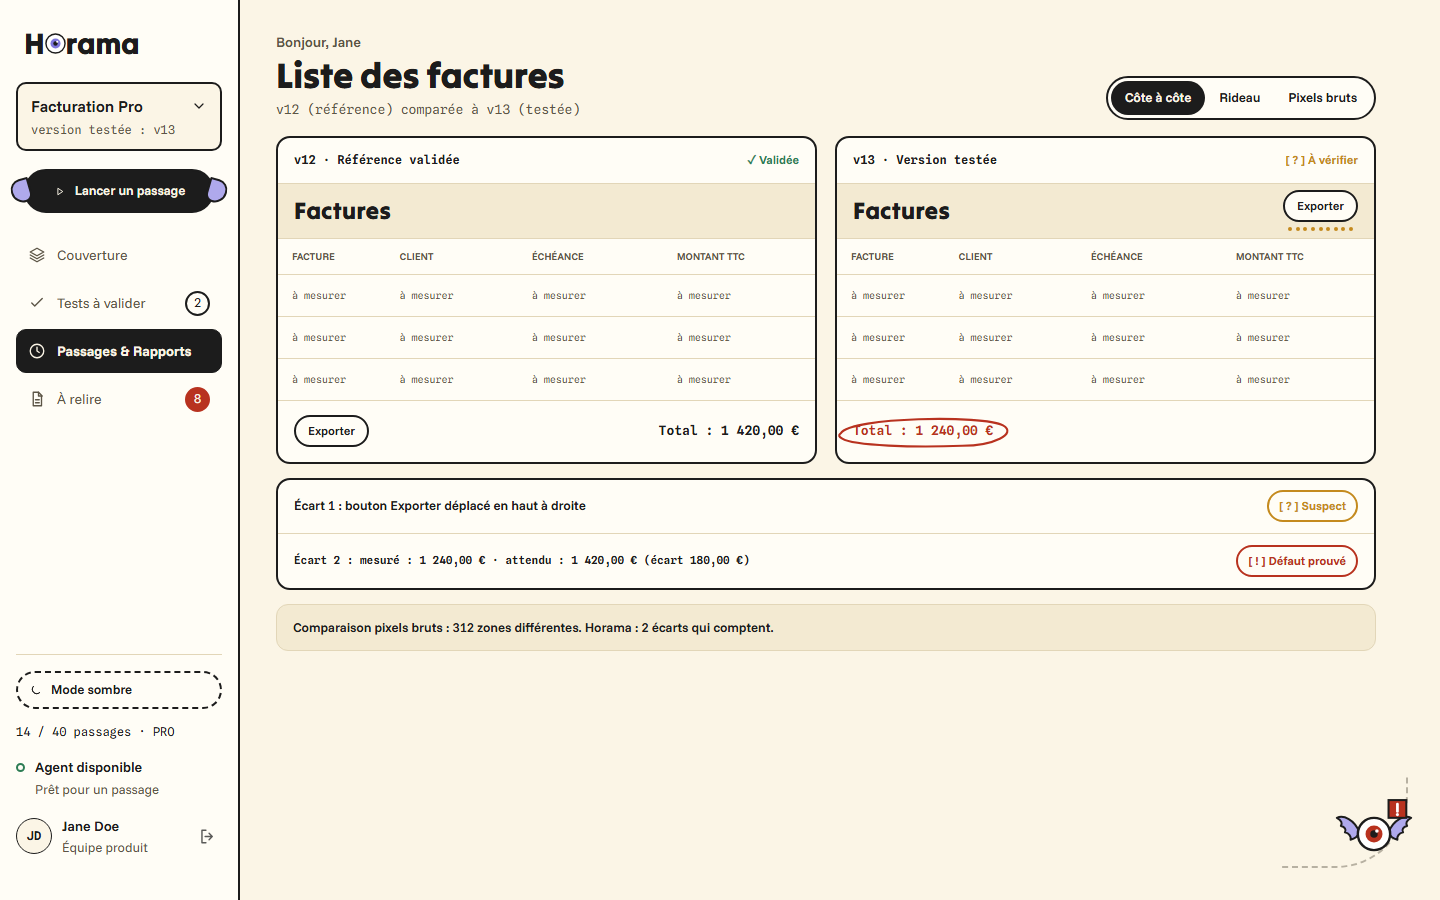
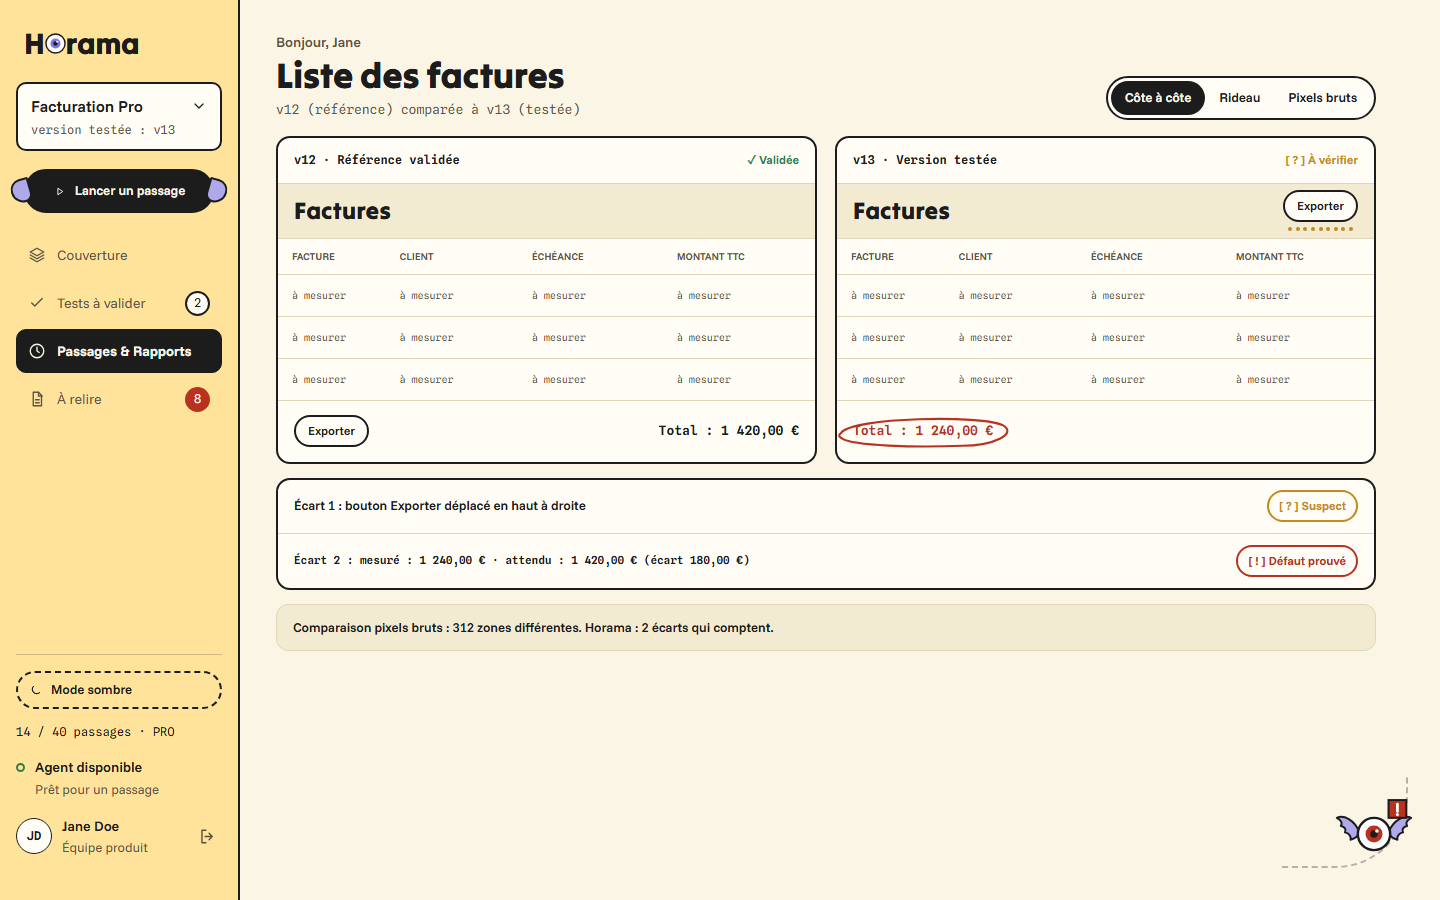
Interface Figma : barre latérale Soleil clair en mode clair, et le rôle de chaque écran
- Barre latérale en Soleil clair #FFE39A en mode clair (Encre en mode sombre, jamais violette), sur les 7 écrans.
- ecrans.md : à quoi sert chaque écran, avec sa capture, et les surfaces hors application.
- Captures reprises à 1440 × 900, barre-laterale.md et README mis à jour.

Changed region(s): [[0.0, 0.0, 0.1875, 1.0]]

diff --git a/docs/da/interface-envoye/ecrans.md b/docs/da/interface-envoye/ecrans.md
@@ -1,0 +1,127 @@
+# Les 7 écrans de Horama : à quoi sert chacun
+
+Horama lit la documentation d'une équipe produit (un vault Obsidian) et en tire des tests. Un humain valide ces tests. L'agent H les joue sur le vrai logiciel, et le code vérifie les valeurs relevées. Chaque décision humaine met ensuite le vault à jour.
+
+Les 7 écrans suivent ce chemin, dans l'ordre : **voir où on en est → valider les tests → regarder le passage → lire le rapport → comparer → trancher → corriger la doc.**
+
+Ils sont tous dans le fichier Figma Make principal ([lien](https://www.figma.com/make/95kAUa9u4Rg2A525f5OHtf)), et on passe de l'un à l'autre par le menu de gauche. La source est `docs/cadrage.md`, section 11.
+
+| # | Écran | La question à laquelle il répond | Mascotte |
+|---|---|---|---|
+| 11.1 | Couverture | Où en est la qualité du logiciel ? | regarde |
+| 11.2 | Tests à valider | Ce test dit-il bien ce que dit la doc ? | doute |
+| 11.3 | Passage en cours | Que fait l'agent en ce moment ? | regarde |
+| 11.4 | Rapport de passage | Qu'a donné le passage ? | fini |
+| 11.5 | Comparaison des versions | Qu'est-ce qui a changé entre deux versions ? | trouve |
+| 11.6 | À relire | C'est un bug, ou c'est voulu ? | doute |
+| 11.7 | Dérive documentaire | La doc est-elle encore juste ? | fini |
+
+---
+
+## 11.1 Couverture : le tableau de bord
+
+![Couverture](11-1-couverture.png)
+
+**À quoi il sert.** C'est la page d'accueil. En un coup d'œil, on voit combien de règles de la documentation sont testées et conformes (28 sur 36), et ce qui reste à traiter (8 cas à relire). On voit aussi l'état de chaque écran suivi du logiciel.
+
+**Ce qu'on y fait.**
+- On repère ce qui ne va pas : défauts prouvés en rouge, suspects en ocre.
+- On ouvre la relecture.
+- On lance un passage avec le bouton ailé.
+
+**Pourquoi c'est important.** C'est la promesse du produit : savoir quelle part de la documentation est réellement vérifiée sur le logiciel.
+
+## 11.2 Tests à valider : de la note au test
+
+![Tests à valider](11-2-tests-a-valider.png)
+
+**À quoi il sert.** Horama vient d'écrire un test à partir d'une note du vault, ici la note de version v13. Avant de le jouer, un humain vérifie qu'il dit bien la même chose que la note.
+
+**Ce qu'on y fait.**
+- On regarde les deux côtés : la note à gauche, le test au format H à droite. La règle est surlignée en jaune des deux côtés, pour qu'on voie d'où vient chaque vérification.
+- On accepte, on modifie ou on refuse le test.
+- Si la note est ambiguë, on répond à la question posée en bas, par exemple : « échéance passée » inclut-elle le jour même ?
+
+**Pourquoi c'est important.** Aucun test n'est joué sans validation humaine. L'IA propose, l'humain décide.
+
+## 11.3 Passage en cours : l'agent en direct
+
+![Passage en cours](11-3-passage-en-cours.png)
+
+**À quoi il sert.** On suit l'agent H pendant qu'il utilise le vrai logiciel : il se connecte, ouvre les factures, applique un filtre, relève les valeurs.
+
+**Ce qu'on y fait.**
+- On regarde le fil des étapes à gauche, chacune avec son heure.
+- On regarde la capture en cours à droite, où ce que l'agent vérifie est entouré.
+- On peut ouvrir le replay public de H Company.
+
+**Pourquoi c'est important.** L'attente devient la démonstration : on voit que c'est un vrai agent sur un vrai logiciel, sans animation truquée.
+
+## 11.4 Rapport de passage : le résultat
+
+![Rapport de passage](11-4-rapport-de-passage.png)
+
+**À quoi il sert.** Une fois le passage fini, il résume tout : combien de tests ont été joués, combien sont conformes, combien de défauts sont prouvés, le coût et la durée. Les tests sont classés du plus grave au moins grave.
+
+**Ce qu'on y fait.**
+- On lit chaque ligne : la règle d'origine, les écrans visités et la preuve chiffrée (« mesuré » / « attendu »).
+- On ouvre le replay d'un test.
+- On exporte le rapport au format H.
+- On clique sur une ligne suspecte pour la comparer en détail (11.5).
+
+**Pourquoi c'est important.** C'est la trace écrite du passage. Elle est aussi enregistrée dans le vault (`vault-horama/passages/`).
+
+## 11.5 Comparaison des versions : avant / après
+
+![Comparaison des versions](11-5-comparaison-des-versions.png)
+
+**À quoi il sert.** On met côte à côte un écran de la version de référence (v12) et de la version testée (v13). Horama y marque seulement les écarts qui comptent.
+
+**Ce qu'on y fait.**
+- On change de vue : côte à côte, rideau (un curseur qu'on fait glisser) ou pixels bruts.
+- On lit les écarts. Le bouton déplacé est marqué de points ocre : c'est un suspect. Le total faux est entouré en rouge : c'est un défaut prouvé.
+
+**Pourquoi c'est important.** Une comparaison pixel par pixel classique trouve 312 différences. Horama n'en garde que 2, celles qui comptent. C'est ce qui évite de noyer l'humain.
+
+## 11.6 À relire : bug, ou voulu ?
+
+![À relire](11-6-a-relire.png)
+
+**À quoi il sert.** On y trouve tous les cas que la machine ne peut pas trancher seule. L'humain dit pour chacun si c'est un bug ou un changement voulu.
+
+**Ce qu'on y fait.**
+- **Défaut prouvé** : la preuve par le calcul est affichée (1 240,00 € contre 1 420,00 €, soit 180,00 € d'écart). On clique « C'est un bug » ou « C'est voulu ».
+- **Suspect** : on voit l'avant et l'après de la zone qui a changé, et on tranche de la même façon.
+
+**Pourquoi c'est important.** Horama garde la décision et ne repose pas la question au passage suivant. Si la réponse est « voulu », c'est la documentation qui doit changer (11.7).
+
+## 11.7 Dérive documentaire : corriger la doc
+
+![Dérive documentaire](11-7-derive-documentaire.png)
+
+**À quoi il sert.** On vient de dire « C'est voulu » sur un changement, mais la note du vault décrit encore l'ancien comportement. Horama propose la correction de la note.
+
+**Ce qu'on y fait.**
+- On lit la modification proposée : la ligne retirée en rouge, la ligne ajoutée en vert.
+- On clique « Corriger la note et ouvrir la PR », ou « Laisser la note telle quelle ».
+
+**Pourquoi c'est important.** La documentation reste vraie toute seule : chaque décision humaine la tient à jour.
+
+---
+
+## Et en dehors de l'application
+
+D'autres surfaces existent dans le dépôt. Ce sont des pages web et une extension, pas des écrans de l'application Figma. Elles sont tenues par le CAO :
+
+| Surface | Où | À quoi elle sert |
+|---|---|---|
+| Page d'accueil | `accueil/` | Présenter Horama et le faire essayer sur un site (mode grand public) |
+| Rapport de la page d'accueil | `accueil/rapport/` | Montrer les défauts trouvés après un essai |
+| Extension Chrome | `extension/` | Lancer Horama depuis l'onglet ouvert, suivre la progression, voir le récapitulatif |
+| Scène | `automatisation/scene/` | Montrer l'agent qui parcourt le site, avec le curseur, la mascotte et les traits |
+
+Le cadrage ne prévoit pas d'autre écran d'application que ces 7.
+
+## Couleurs de la barre latérale
+
+En mode clair, la barre latérale est en Soleil clair `#FFE39A`, pour qu'on la distingue du fond et des cartes. En mode sombre, elle est en Encre `#1C1C1C`. Elle n'est jamais violette. Le détail est dans `barre-laterale.md`.

diff --git a/docs/da/interface-envoye/README.md b/docs/da/interface-envoye/README.md
@@ -16,20 +16,22 @@ Navigation branchée : « Tests à valider » ouvre 11.2, « ▷ Lancer un passa
 
 ## Ce qui a été appliqué
 
-- **Coque** : barre latérale Papier `#FFFDF6` avec contour encre (voir plus bas), logo « H[œil]rama » en Tilt Warp couleur encre, sélecteur « Facturation Pro · version testée : v13 », bouton ailé « ▷ Lancer un passage », menu (Couverture, Tests à valider, Passages & Rapports, À relire), quota « 14 / 40 passages · PRO », « Agent disponible », profil « Jane Doe ».
+- **Coque** : barre latérale Soleil clair `#FFE39A` en mode clair, Encre en mode sombre, avec contour encre (voir plus bas), logo « H[œil]rama » en Tilt Warp couleur encre, sélecteur « Facturation Pro · version testée : v13 », bouton ailé « ▷ Lancer un passage », menu (Couverture, Tests à valider, Passages & Rapports, À relire), quota « 14 / 40 passages · PRO », « Agent disponible », profil « Jane Doe ».
 - **Zone principale** : fond engobe `#FBF5E6`, cartes papier `#FFFDF6` avec contour encre de 2,5 px, aucune ombre ni dégradé, titres en Tilt Warp, texte en Funnel Sans, mesures en Spline Sans Mono.
 - **États** : miltos `#B8321F` (défaut prouvé), ocre `#C48A1E` (suspect), olivier `#2E7D55` (conforme), toujours avec leur signe.
 - **Mascotte** : le dessin de `docs/da/mascotte.js` (ailes lilas pointues, trait `#1C1C1C`), fixe en bas à droite ; seuls l'iris et le badge changent selon l'écran.
 
 Les demandes envoyées à Figma Make sont dans `demande-figma-coque.txt`, `demande-figma-barre-papier.txt` et `demandes-ecrans-11-3-a-11-7.txt`. Les captures ont été prises sur l'aperçu du fichier, à 1440 × 900.
 
-## Barre latérale : décision du 18/11
+## Barre latérale : décisions du 18 et du 19/11
 
-La barre latérale n'est **jamais violette**. Elle est en Papier `#FFFDF6`, avec un contour encre de 2,5 px et des textes encre : voir `barre-laterale.md`.
+La barre latérale n'est **jamais violette**. En mode clair, elle est en Soleil clair `#FFE39A`, pour se détacher du fond et des cartes. En mode sombre, elle est en Encre `#1C1C1C`. Voir `barre-laterale.md`.
+
+À quoi sert chaque écran : voir `ecrans.md`.
 
 ## Ce qui reste
 
 - Le dossier `interface/` du dépôt n'est pas modifié : ces écrans vivent dans Figma Make (fichiers du CPO).
 - Une restauration de version dans Figma Make avait effacé les écrans 11.3 et 11.4 et remis l'ancien logo sur 11.1 : ils ont été recréés le 18/11 au soir. Avant de restaurer une version, vérifiez qu'elle contient les dossiers `interface/screen-11-3` à `screen-11-7`.
-- L'ancien écran « Tests à valider » du deuxième fichier Figma Make ([lien](https://www.figma.com/make/6bnlfg9sPF3qDLPWshYQLO)) reste en place, avec la barre Papier ; il n'est plus la référence.
+- Le deuxième fichier Figma Make (ancien écran « Tests à valider ») n'est plus la référence et n'est plus mis à jour : seul le fichier principal compte.
 - Les tableaux reproduits dans les maquettes (11.3, 11.5, 11.7) affichent « à mesurer » là où la spécification ne donne pas de valeur.

diff --git a/docs/da/interface-envoye/barre-laterale.md b/docs/da/interface-envoye/barre-laterale.md
@@ -2,18 +2,23 @@
 
 La barre latérale suit la direction graphique « L'envoyé » (`docs/da/charte-graphique.pdf`). Ces règles valent pour tous les écrans de l'application, de 11.1 à 11.7.
 
-**Décision de la CDO (18/11) : la barre latérale n'est jamais violette.** Elle est en Papier `#FFFDF6`, et non en Nuit `#2A2647`.
+**Décisions de la CDO :**
+
+- 18/11 : la barre latérale n'est jamais violette. Elle n'est plus en Nuit `#2A2647`.
+- 19/11 : en mode clair, elle est en Soleil clair `#FFE39A`, pour se détacher du fond Engobe et des cartes Papier. En mode sombre, elle reste Encre `#1C1C1C`.
 
 ## Coque
 
 - Position fixe à gauche.
 - Largeur desktop : 240 px.
 - Hauteur : toute la hauteur de l'écran.
-- Fond Papier : `#FFFDF6`.
+- Fond en mode clair : Soleil clair `#FFE39A`.
 - Bordure droite : 2,5 px solid `#1C1C1C`.
 - Padding : 28 px 16 px 24 px.
 - Aucun dégradé, aucune ombre portée.
-- La barre reste Papier en mode clair. En mode sombre, elle passe en Encre `#1C1C1C`, jamais en violet.
+- En mode sombre, la barre est en Encre `#1C1C1C`, jamais en violet.
+- Sur le fond Soleil clair, le sélecteur de projet, l'avatar et les compteurs standards gardent un fond Papier `#FFFDF6`. Le séparateur du pied est en Encre secondaire à 30 %.
+- Aucun texte gris plus clair que `#5C5546` sur la barre.
 - Les textes gardent un contraste d'au moins 4,5:1.
 
 ## Typographies
@@ -27,7 +32,8 @@ La barre latérale suit la direction graphique « L'envoyé » (`docs/da/charte-
 
 | Rôle | Couleur |
 |---|---|
-| Papier, fond de la barre | `#FFFDF6` |
+| Soleil clair, fond de la barre en mode clair | `#FFE39A` |
+| Papier, sélecteur, avatar, compteurs | `#FFFDF6` |
 | Encre, texte principal, boutons et contours | `#1C1C1C` |
 | Encre secondaire, texte secondaire | `#5C5546` |
 | Engobe, texte sur l'entrée active et sur le bouton | `#FBF5E6` |
